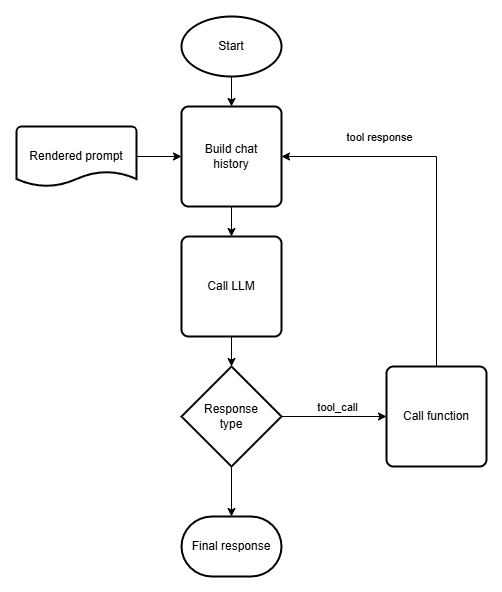
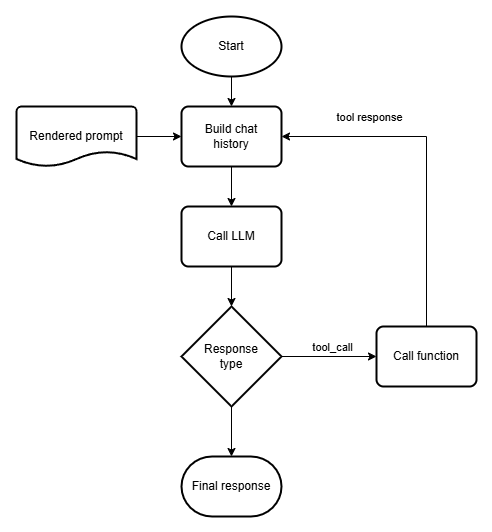
Decrease image size to fix layout

Changed region(s): [[0.0305, 0.0602, 0.9756, 0.9925], [0.3354, 0.0, 0.5488, 0.1203]]

diff --git a/manuscript/03-getting-started-with-semantic-kernel.md b/manuscript/03-getting-started-with-semantic-kernel.md
@@ -121,7 +121,6 @@ While the kernel is the core of Semantic Kernel, the functions are the most impo
 part of the framework. Functions will provide the power needed to turn the LLM from a
 simple text generator into the promised semantic intelligence of your application.
 
-{pagebreak}
 ### Calling Functions
 
 In Semantic Kernel, you can connect functions to the kernel to provide it with
